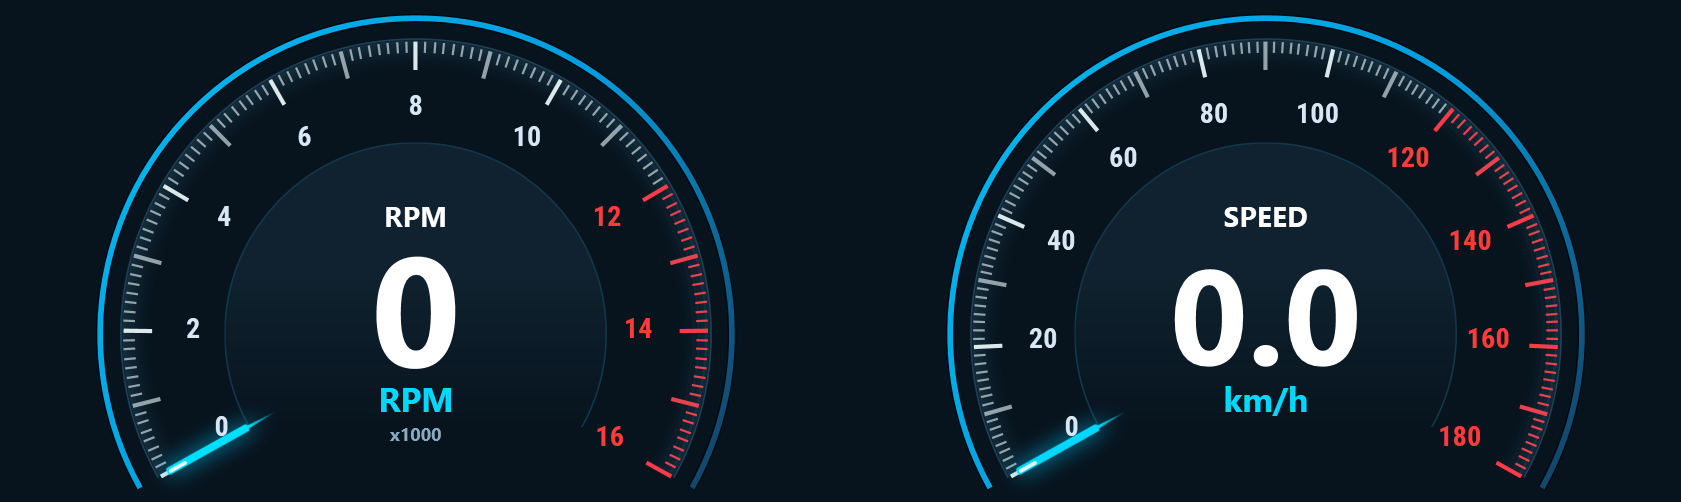
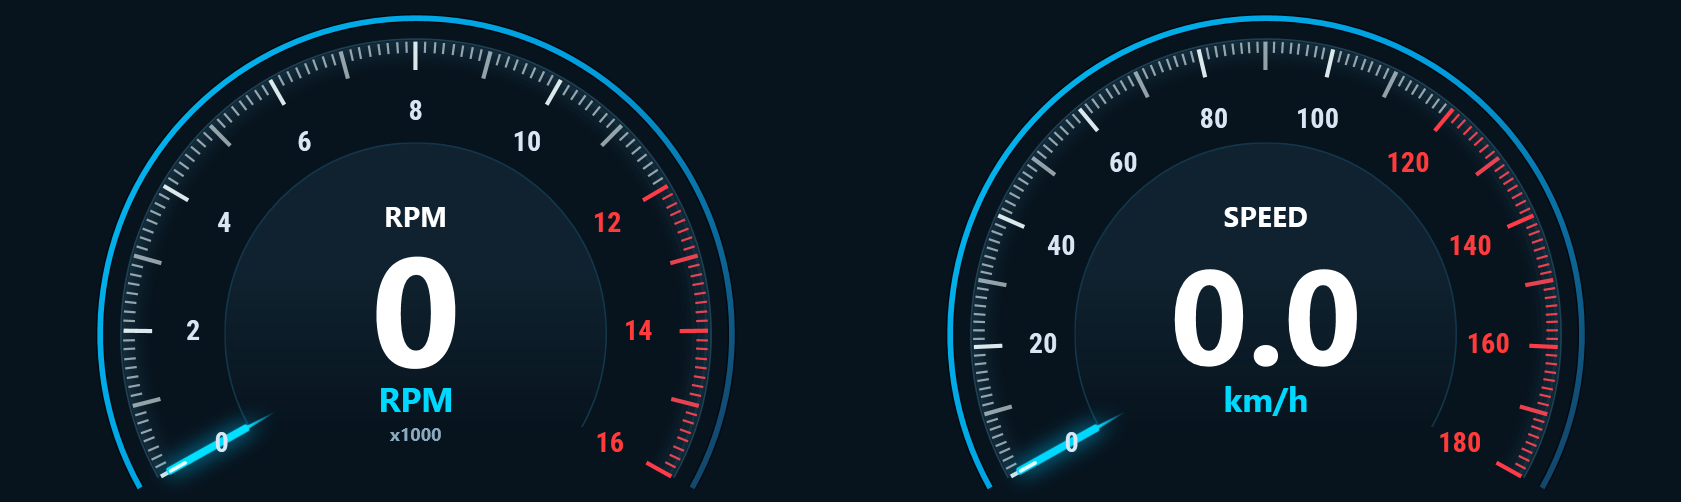
Show scale glyphs centered on concentric tick rays

diff --git a/previews/v135/README.md b/previews/v135/README.md
@@ -3,3 +3,5 @@
 Ảnh từ giao diện WPF thực tế trên Windows. Vòng ngoài, vạch chia và vòng trong dùng chung tâm và chung góc MIN/MAX, không ép chung đáy.
 Giữ kim thanh mỏng bo góc có đuôi vuốt và các chức năng hiện có.
 Kênh cập nhật hiện vẫn là v134, bản v135 đang xem trước.
+
+Số chia được căn theo tâm nét chữ, cùng bán kính và thẳng với vạch tương ứng; bỏ lệch riêng số 0.
